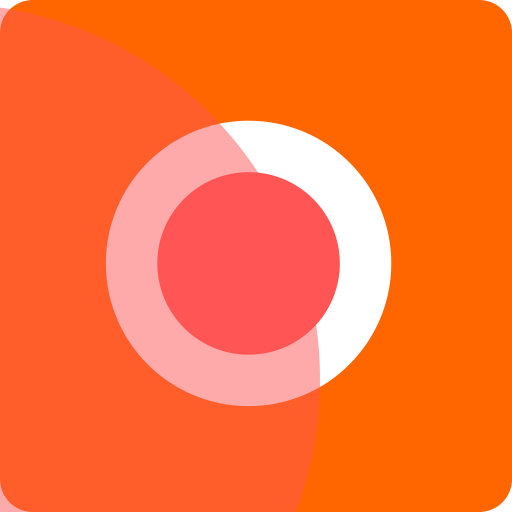
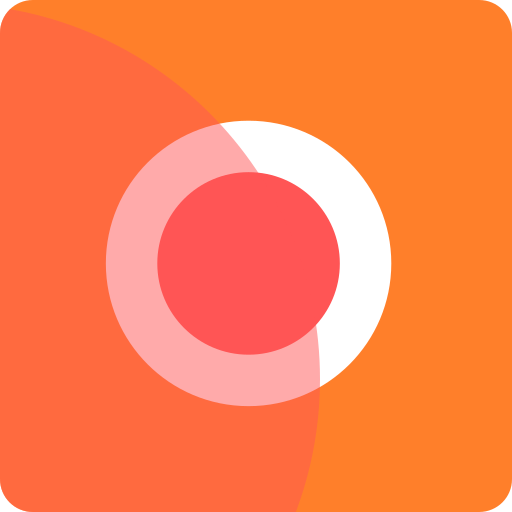
Add improvements in design and splashscreen.

diff --git a/src/pages/featured-events/featured-events.html b/src/pages/featured-events/featured-events.html
@@ -1,5 +1,5 @@
 <ion-header>
-  <ion-navbar color="secondary">
+  <ion-navbar color="primary">
     <ion-buttons left>
         <button ion-button icon-only menuToggle>
           <ion-icon name="menu"></ion-icon>
@@ -12,17 +12,20 @@
 <ion-content padding class="card-background-page">
   <ion-card>
     <img src="assets/img/card-saopaolo.png"/>
-    <div class="card-title">Un Evento Destacado</div>
-    <div class="card-subtitle">Algún Subtítulo</div>
+    <div class="card-title">Un Evento Destacado<br/>
+      <div class="card-subtitle">Algún Subtítulo</div>
+    </div>
   </ion-card>
   <ion-card>
     <img src="assets/img/card-saopaolo.png"/>
-    <div class="card-title">Un Evento Destacado</div>
-    <div class="card-subtitle">Algún Subtítulo</div>
+    <div class="card-title">Un Evento Destacado<br/>
+      <div class="card-subtitle">Algún Subtítulo</div>
+    </div>
   </ion-card>
   <ion-card>
     <img src="assets/img/card-saopaolo.png"/>
-    <div class="card-title">Un Evento Destacado</div>
-    <div class="card-subtitle">Algún Subtítulo</div>
+    <div class="card-title">Un Evento Destacado<br/>
+      <div class="card-subtitle">Algún Subtítulo</div>
+    </div>
   </ion-card>
 </ion-content>

diff --git a/src/pages/events-list-page/events-list-page.html b/src/pages/events-list-page/events-list-page.html
@@ -1,12 +1,12 @@
 <ion-header>
-  <ion-navbar color="secondary">
+  <ion-navbar color="primary">
     <ion-buttons left>
         <button ion-button icon-only menuToggle>
           <ion-icon name="menu"></ion-icon>
         </button>
     </ion-buttons>
     <ion-title>
-      <span *ngIf="!searchBarVisible">Título</span>
+      <span *ngIf="!searchBarVisible">Lista de Eventos</span>
       <ion-searchbar
         [(ngModel)]="searchText"
         placeholder="Buscar"
@@ -22,14 +22,16 @@
   </ion-navbar>
 </ion-header>
 
-<ion-content padding>
+<ion-content>
   <span *ngIf="searchText">Estás buscando: {{searchText}}</span>
   <ion-list>
-    <ion-item button *ngFor="let event of (events | eventsFilter:searchText)" (click)="viewEvent(event)">
+    <ion-item button
+    *ngFor="let event of (events | eventsFilter:searchText)"
+    (click)="viewEvent(event)" text-wrap>
       <ion-thumbnail item-left>
-        <img src="assets/img/card-saopaolo.png"/>
+        <img src="assets/img/list-thumbnail.png"/>
       </ion-thumbnail>
-      {{event.title}}
+      <span class="label-title">{{event.category}}: {{event.title}}</span>
       <p *ngIf="!event.cost">
         Entrada Liberada
       </p>

diff --git a/src/app/app.component.ts b/src/app/app.component.ts
@@ -1,6 +1,6 @@
 import { Component, ViewChild } from '@angular/core';
 import { Nav, Platform } from 'ionic-angular';
-import { StatusBar } from 'ionic-native';
+import { StatusBar, Splashscreen } from 'ionic-native';
 
 import { HomePage } from '../pages/home/home';
 import { EventsListPage } from '../pages/events-list-page/events-list-page';
@@ -31,6 +31,7 @@ export class MyApp {
       // Okay, so the platform is ready and our plugins are available.
       // Here you can do any higher level native things you might need.
       StatusBar.styleDefault();
+      Splashscreen.hide();
     });
   }
 

diff --git a/src/pipes/events-filter.ts b/src/pipes/events-filter.ts
@@ -5,10 +5,10 @@ import {Pipe} from '@angular/core';
   pure: false
 })
 export class EventsFilterPipe {
-  transform(events: any[], params: string[]) {
-    if(params[0] == null) { return events; }
+  transform(events: any[], params: string) {
+    if(params == null) { return events; }
     if(events == null) { return null; }
-    let query = params[0].toLowerCase();
+    let query = params.toLowerCase();
     return events.filter(event =>
         event.title.toLowerCase().indexOf(query) > -1
     );

diff --git a/src/pages/featured-events/featured-events.scss b/src/pages/featured-events/featured-events.scss
@@ -7,14 +7,17 @@ page-featured-events {
     .card-title {
       position: absolute;
       top: 36%;
+      width: 90%;
+      left: 5%;
       font-size: 2.0em;
-      width: 100%;
-      font-weight: bold;
+      font-weight: light;
+      text-align: center;
       color: #fff;
     }
     .card-subtitle {
-      font-size: 1.0em;
-      position: absolute;
+      font-size: .5em;
+      font-weight:lighter;
+      position: static;
       top: 52%;
       width: 100%;
       color: #fff;

diff --git a/src/index.html b/src/index.html
@@ -1,8 +1,8 @@
 <!DOCTYPE html>
-<html lang="en" dir="ltr">
+<html lang="es" dir="ltr">
 <head>
   <meta charset="UTF-8">
-  <title>Ionic App</title>
+  <title>Cultura Talca</title>
   <meta name="viewport" content="width=device-width, initial-scale=1.0, minimum-scale=1.0, maximum-scale=1.0, user-scalable=no">
   <meta name="format-detection" content="telephone=no">
   <meta name="msapplication-tap-highlight" content="no">

diff --git a/src/pages/events-list-page/events-list-page.scss b/src/pages/events-list-page/events-list-page.scss
@@ -1,3 +1,24 @@
-page-events-list-page {
+page-events-list {
+  .item-md{
+    padding-left: 5px !important;
+  }
 
+  .label-md{
+    margin: 0px 0px 0px 0px;
+  }
+  .label-md:first-line{
+    //background-color: red;
+  }
+  .label-md .label-title{
+    word-wrap: break-word;
+    text-overflow: ellipsis;
+  }
+
+  /*
+  ion-thumbnail img{
+    position: absolute;
+    top: 0px;
+    left: 0px;
+  }
+  */
 }

diff --git a/src/pages/event-detail-page/event-detail-page.html b/src/pages/event-detail-page/event-detail-page.html
@@ -1,13 +1,13 @@
 <ion-header>
-  <ion-navbar>
-    <ion-title>{{event.title}}</ion-title>
+  <ion-navbar color="primary">
+    <ion-title>Detalles del Evento</ion-title>
   </ion-navbar>
 </ion-header>
 
 <ion-content>
   <ion-card>
     <ion-card-header>
-      Descripción del evento
+      {{event.title}}
     </ion-card-header>
     <ion-card-content>
       {{event.description}}

diff --git a/src/providers/data.ts b/src/providers/data.ts
@@ -5,7 +5,7 @@ import { Injectable } from '@angular/core';
 export class Data {
   public events = [{
     "id": 1,
-    "title": "Concierto de Temporada N° 8",
+    "title": "Concierto de Temporada N° 8 Título Largo",
     "category": "Música",
     "description": "Una pequeña descripción.",
     "when":{

diff --git a/src/theme/variables.scss b/src/theme/variables.scss
@@ -23,7 +23,7 @@ $background-color:  #fff;
 // The "primary" color is the only required color in the map.
 
 $colors: (
-  primary:    #387ef5,
+  primary:    #ff7f2a,
   secondary:  #32db64,
   danger:     #f53d3d,
   light:      #f4f4f4,

diff --git a/src/pages/info-page/info-page.html b/src/pages/info-page/info-page.html
@@ -1,5 +1,5 @@
 <ion-header>
-  <ion-navbar color="secondary">
+  <ion-navbar color="primary">
     <ion-buttons left>
         <button ion-button icon-only menuToggle>
           <ion-icon name="menu"></ion-icon>
